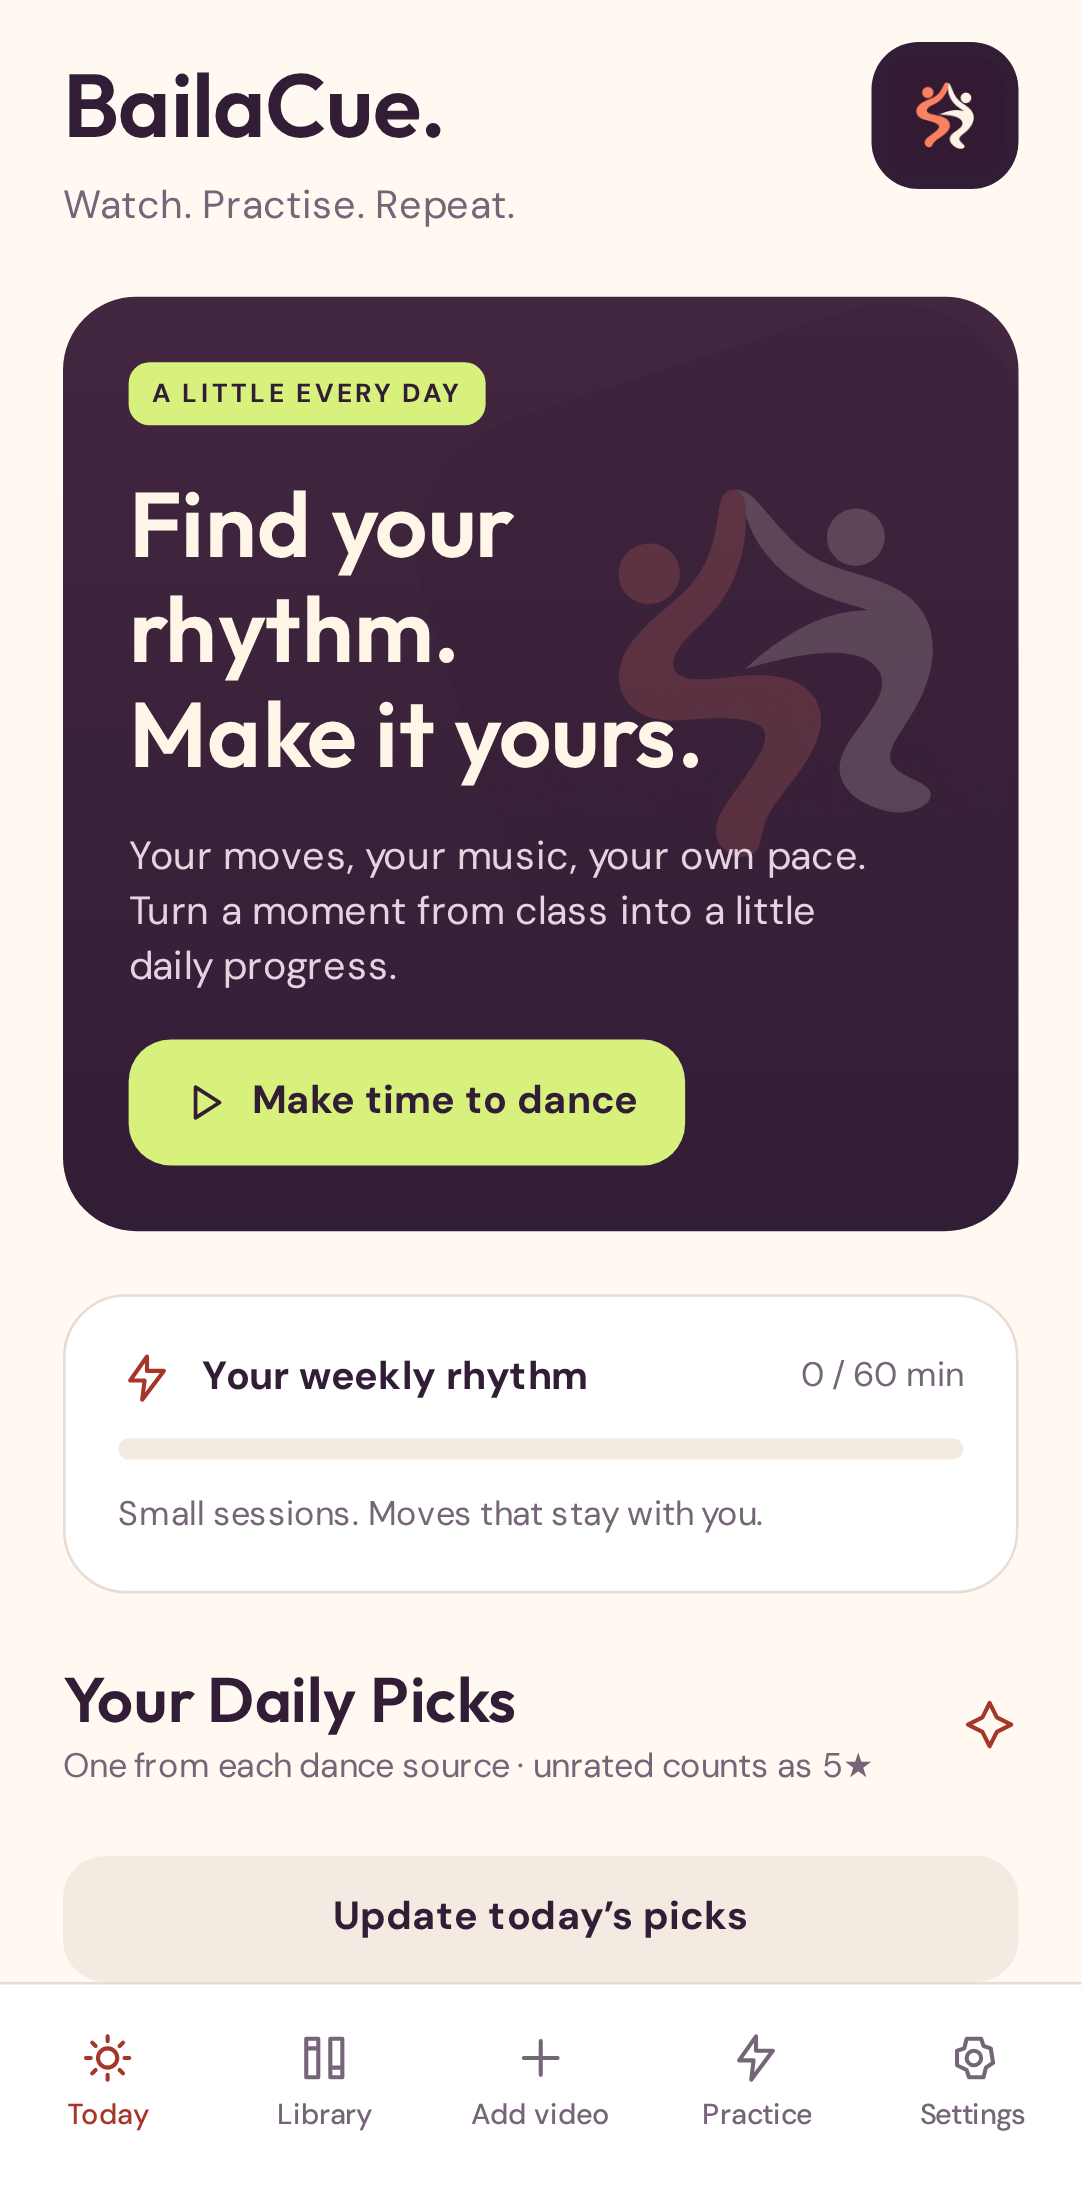
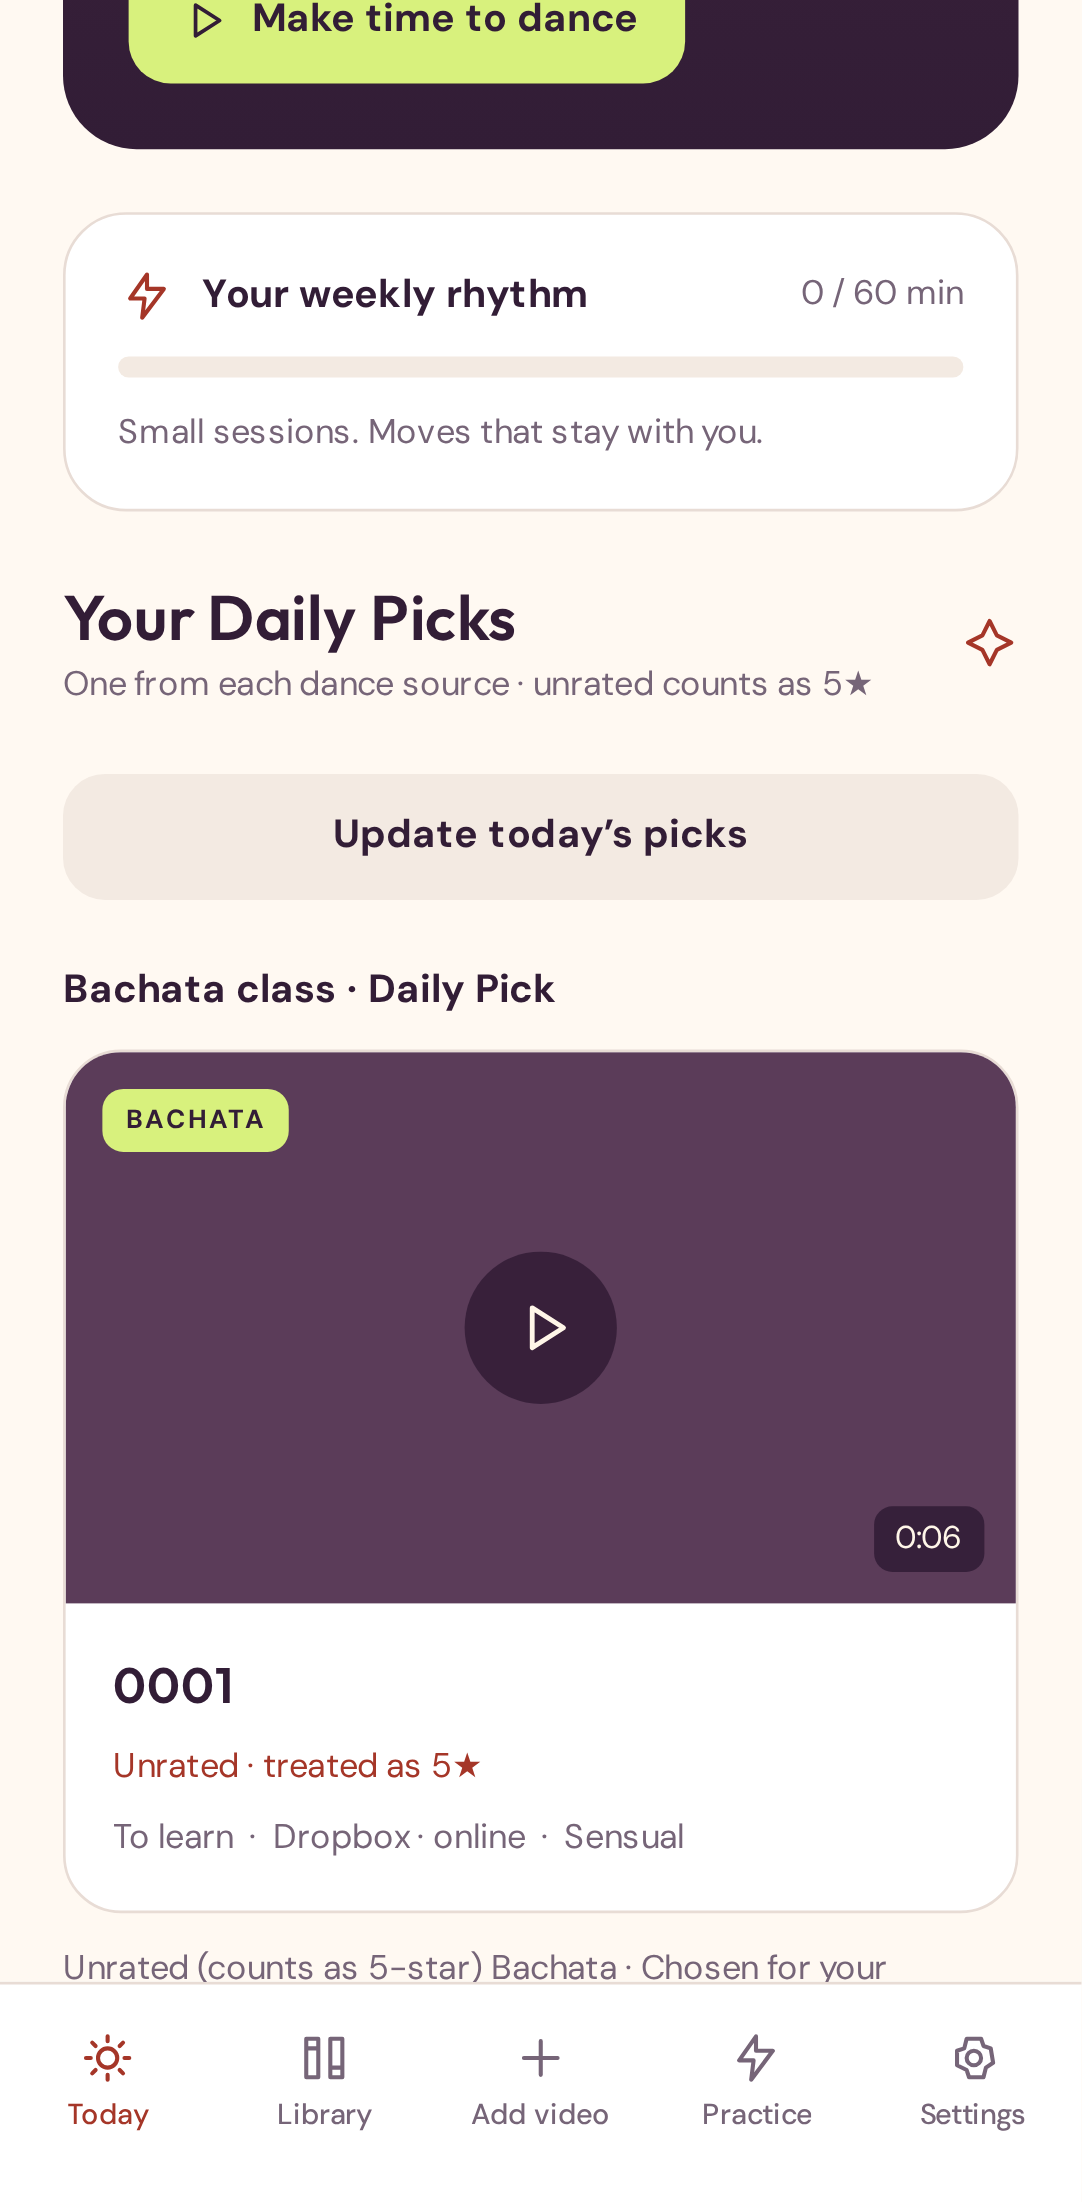
test: capture visible numeric source listings and daily picks [skip ci]

diff --git a/tests/e2e/cloud.spec.ts b/tests/e2e/cloud.spec.ts
@@ -349,6 +349,14 @@ test("user connects Salsa and Bachata folders → streams → edits → refresh 
     ),
   ).toBe(true);
   expect(renames.some((r) => r.to_path === "/bachata/0001.mp4")).toBe(true);
+  await page
+    .getByRole("button", { name: "Play 0001", exact: true })
+    .first()
+    .scrollIntoViewIfNeeded();
+  await page.screenshot({
+    path: "artifacts/screenshots/numeric-source-library.png",
+    fullPage: true,
+  });
   await page.getByRole("tab", { name: "Today", exact: true }).click();
   await page
     .getByRole("button", { name: "Update today’s picks", exact: true })
@@ -360,6 +368,9 @@ test("user connects Salsa and Bachata folders → streams → edits → refresh 
     page.getByText("Bachata class · Daily Pick", { exact: false }),
   ).toBeVisible();
   await expect(page.getByText("Unrated · treated as 5★").first()).toBeVisible();
+  await page
+    .getByText("Bachata class · Daily Pick", { exact: false })
+    .scrollIntoViewIfNeeded();
   await page.screenshot({
     path: "artifacts/screenshots/source-daily-picks.png",
     fullPage: true,
